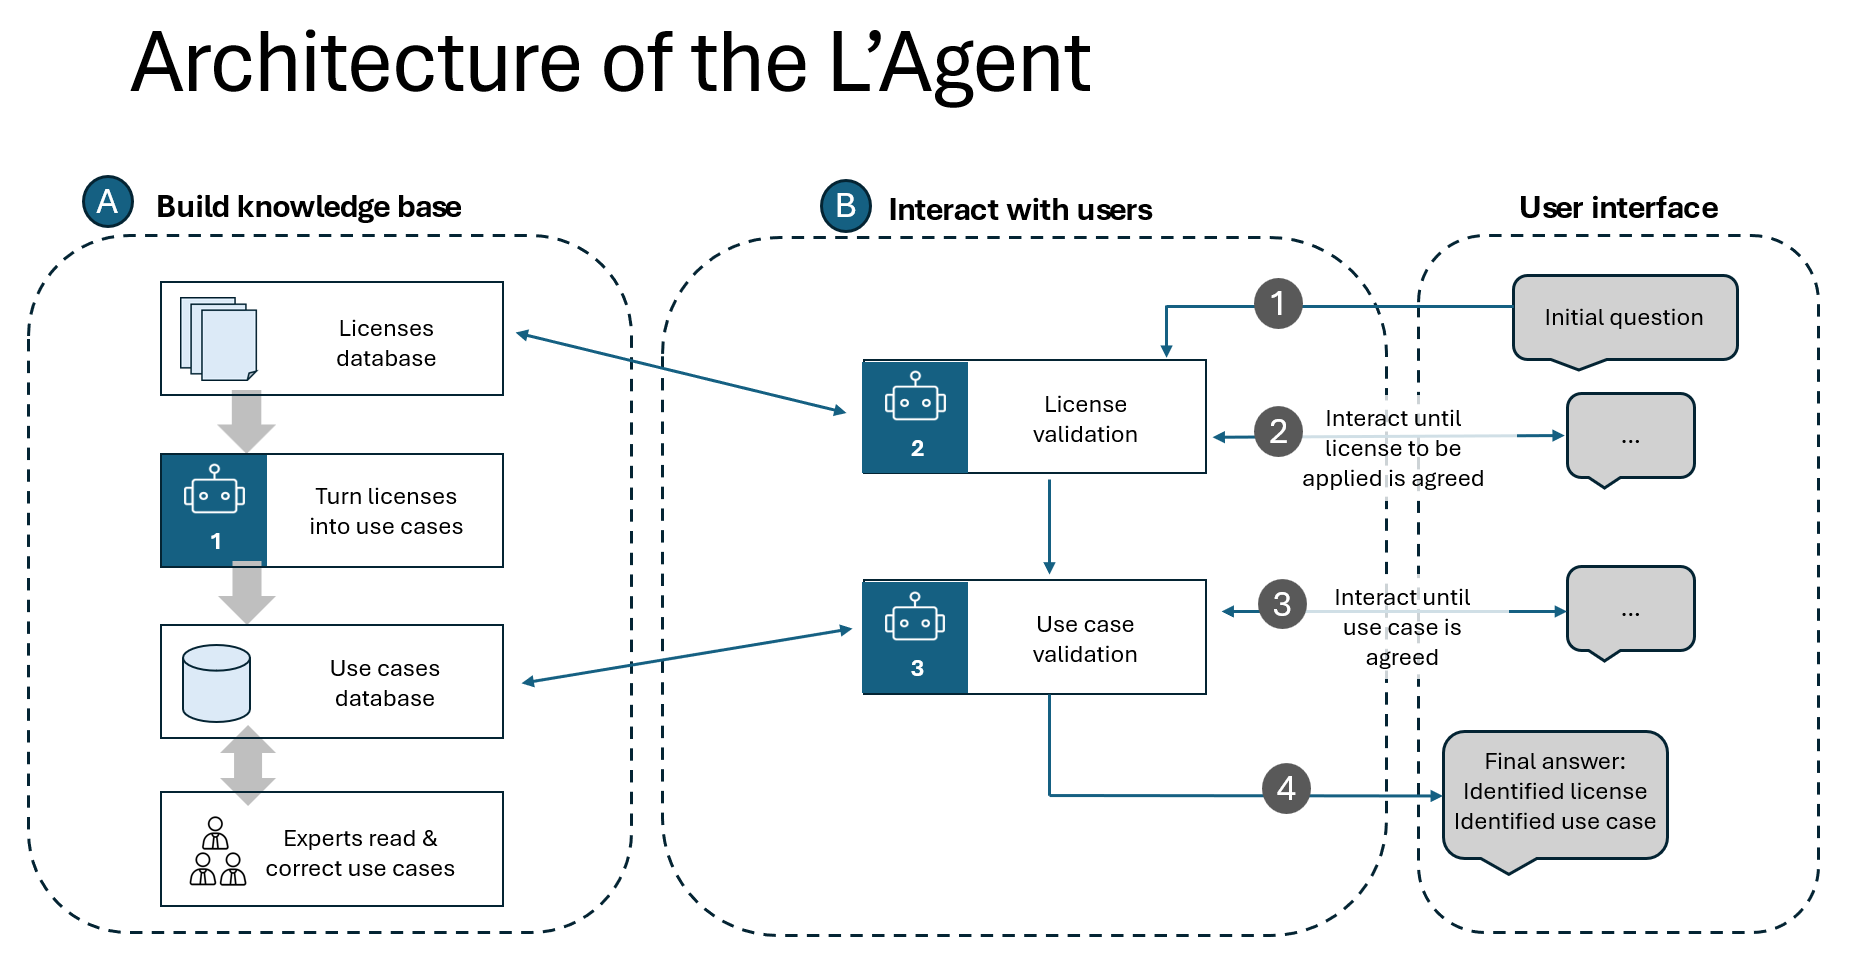
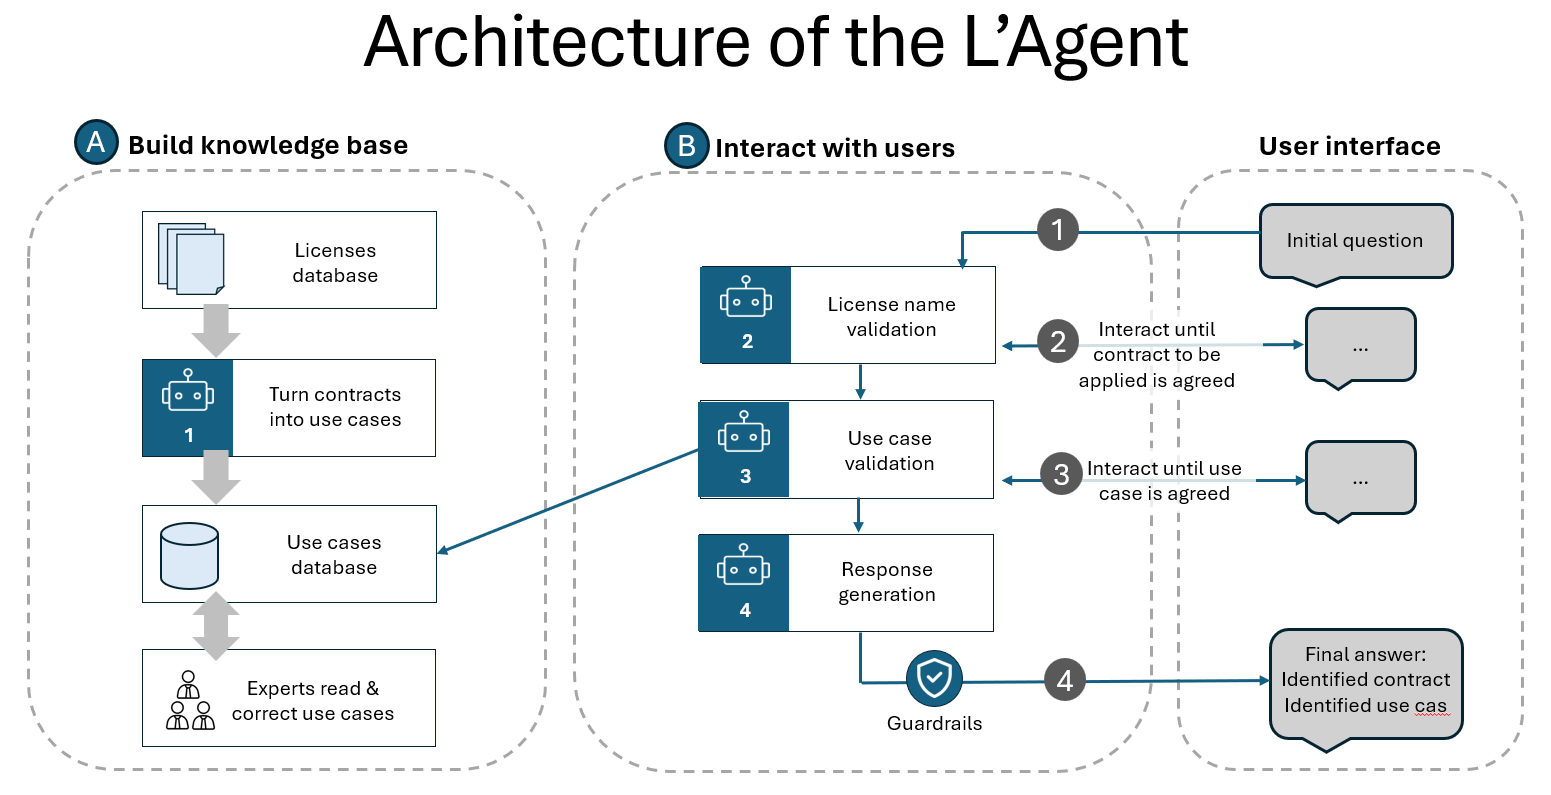
updated README

diff --git a/cli.py b/cli.py
@@ -19,13 +19,13 @@ def parse_args():
     license_subparsers = license_parser.add_subparsers(dest="sub_action")
     license_subparsers.add_parser('list', help='list licenses')
 
-    use_case_parser = subparsers.add_parser('use_case', help='Use case management')
+    use_case_parser = subparsers.add_parser('use-case', help='Use case management')
     use_case_subparsers = use_case_parser.add_subparsers(dest="sub_action")
 
     # generate use cases
     generate_uc_parser = use_case_subparsers.add_parser('generate', help='generate use cases for licenses')
     generate_uc_parser.add_argument('-a', '--all', action='store_true', help='generate use cases for all licenses')
-    generate_uc_parser.add_argument('-t', '--license_tag', type=str, help='generate use cases for the [license_tag] license')
+    generate_uc_parser.add_argument('-t', '--license-tag', type=str, help='generate use cases for the [license_tag] license')
 
     # chat command line
     chat_parser = subparsers.add_parser('chat', help='Chat with L\'Agent. ')
@@ -53,7 +53,7 @@ def main(args):
                 print(license["tag"])
             return
 
-    if args.action == "use_case":
+    if args.action == "use-case":
         if args.sub_action == "generate":
 
             # possibly restrict to one license

diff --git a/lagent/licenses/licenses.py b/lagent/licenses/licenses.py
@@ -64,8 +64,8 @@ class LicenseProcessor():
     def generate_license_use_cases(self, license_tag):
 
         license_content = self.read_license_text(license_tag)
-        logger.info(f"processing license: {license_tag}, {len(license_content)=}")
         license_str = "".join(license_content)
+        logger.info(f"processing license: {license_tag}, {len(license_str)=}")
 
         try:
             result = self.chain.invoke({"licence_text": license_str})

diff --git a/README.md b/README.md
@@ -1,44 +1,61 @@
 # L'Agent
 
-L'Agent is an open-source license assistant capable of answering questions about the use of a license. 
+L'Agent is an open-source license assistant capable of providing verified answers to questions about the use of a license. 
+
+This project was created for the the [Generative AI Agents Developer Contest by NVIDIA and LangChain](https://www.nvidia.com/en-us/ai-data-science/generative-ai/developer-contest-with-langchain/).
 
 ## Context
   
 Understanding legal documents is not easy. They are written by experts, for experts, using expert vocabulary.
   
-When used directly AI could not be trusted enough for legal advice.
+When used directly AI could not be trusted enough. For legal advices, there is no room for misinterpretations or hallucinations.
+
+The project L’Agent  focuses on open-source licenses and provide verified answers to any question about them.  However, the concept and architecture can be applied to any contract or legal texts database.
 
 ## Solution
 
-L'Agent preprocesses licenses by generating all use cases related to each license, using a Large Language Model (LLM) with structured output.
+First l'Agent preprocesses licenses by generating all use cases related to each license, using a Large Language Model (LLM) with structured output.
 
 These use cases can be verified and corrected by a legal expert.
 
-L'Agent chat uses only these certified use cases to respond to user requests.
+L'Agent chat is a generative AI agent chatbot that uses only these certified use cases to respond to user requests.
 
 L'Agent states its asumptions about which license and which use case is used to provide the answer, ensuring that the user is responsible for the shared understanding of the request, and the validity of the answer.
 
+Finally the answer of L'Agent is cross-validated using [NEMO Guardrails](https://docs.nvidia.com/nemo/guardrails/index.html) against the license name and the license use case, ensuring the thrustfullness of the answer.
 
 ![Architecture of L'Agent.](./assets/images/lagent_architecture.png)
 
 Chat workflow
   1. Initial question from the user.
   2. L'Agent interacts until the license is fully identified.
-  3. Then L'Agent interacts until a use case of this license matches the user's use case
-  4. Then L'Agent provides the answer using this use case.
+  3. Then L'Agent interacts until a use case of this license matches the user's use case.
+  4. Then L'Agent provides the answer using this use case. The answer is cross-validated using [NEMO Guardrails](https://docs.nvidia.com/nemo/guardrails/index.html).
 
 L'Agent is preloaded with 32 open-source software licenses for demonstration purpose.
+
+# Technologies used
+
+* [NVIDIA NIM](https://build.nvidia.com/explore/discover) serves the LLM models used by L'Agent
+  * LLM [mistral-large](https://build.nvidia.com/mistralai/mistral-large) for use case generation and chat engine
+  * LLM [mixtral-8x22b-instruct](https://build.nvidia.com/mistralai/mixtral-8x22b-instruct) for cross-validation of L'Agent answer
+* [NVIDIA NEMO Guardrails](https://docs.nvidia.com/nemo/guardrails/index.html) for L'Agent output rail implementation
+* [LangChain](https://www.langchain.com/langchain) as generative AI framework 
+    * ```langchain-nvidia-ai-endpoints``` integration with NVIDIA NIM
+* [LangSmith](https://www.langchain.com/langsmith) for generative AI monitoring
+* [Gradio](https://www.gradio.app/) as user interface 
+
 
 # Install
 
 * Define environment variables inside a .env file
 
 ```sh
-# Environment variables for the LANG SMITH
+# Environment variables for LANG SMITH
 LANGCHAIN_TRACING_V2=true
 LANGCHAIN_API_KEY=
 
-# Environment variables for the NVIDIA NIM API
+# Environment variables for NVIDIA NIM API
 NVIDIA_API_KEY=
 ```
 
@@ -57,11 +74,24 @@ pip install -r requirements
 python app.py -h
 ```
 
-* Use the command line interface (CLI) for generating use cases for a license
+* Use the command line interface (CLI) to: 
+  * list available licenses
+  * generating use cases for a license
+  * running the L'Agent chat in command line
 
 ```sh
 python cli.py -h
 ```
+```
+Command line interface for L'Agent.
+
+positional arguments:
+  {license,use_case,chat}
+    license             License management
+    use_case            Use case management
+    chat                Chat with L'Agent.
+```
+
 
 # Usage
 
@@ -89,7 +119,7 @@ The Chat app has two tabs:
 * Run the use case generator on a specific license
 
 ```sh
-python cli.py -t cecill-2.1
+python cli.py use-case generate -t cecill-2.1
 ```
 
 * Licenses are listed in the file 
@@ -116,14 +146,20 @@ List all open source licenses, for each provide a link to the license text and a
 * You can run the use case generator on all licenses:
 
 ```sh
-python cli.py -a
+python cli.py use-case generate -a
 ```
 
 * You can list all license tags:
 
 ```sh
-python cli.py -l
+python cli.py license list
 ```
+
+## Acknowledgments
+
+Many thanks to [NVIDIA](https://www.nvidia.com/fr-fr/) and [LangChain](https://www.langchain.com/) for this opportunity and the support given during the contest.
+
+Special thanks to my company [Darwin-X](https://www.darwin-x.com/) for allowing me to invest time in this project.
 
 ## Contributing
 
